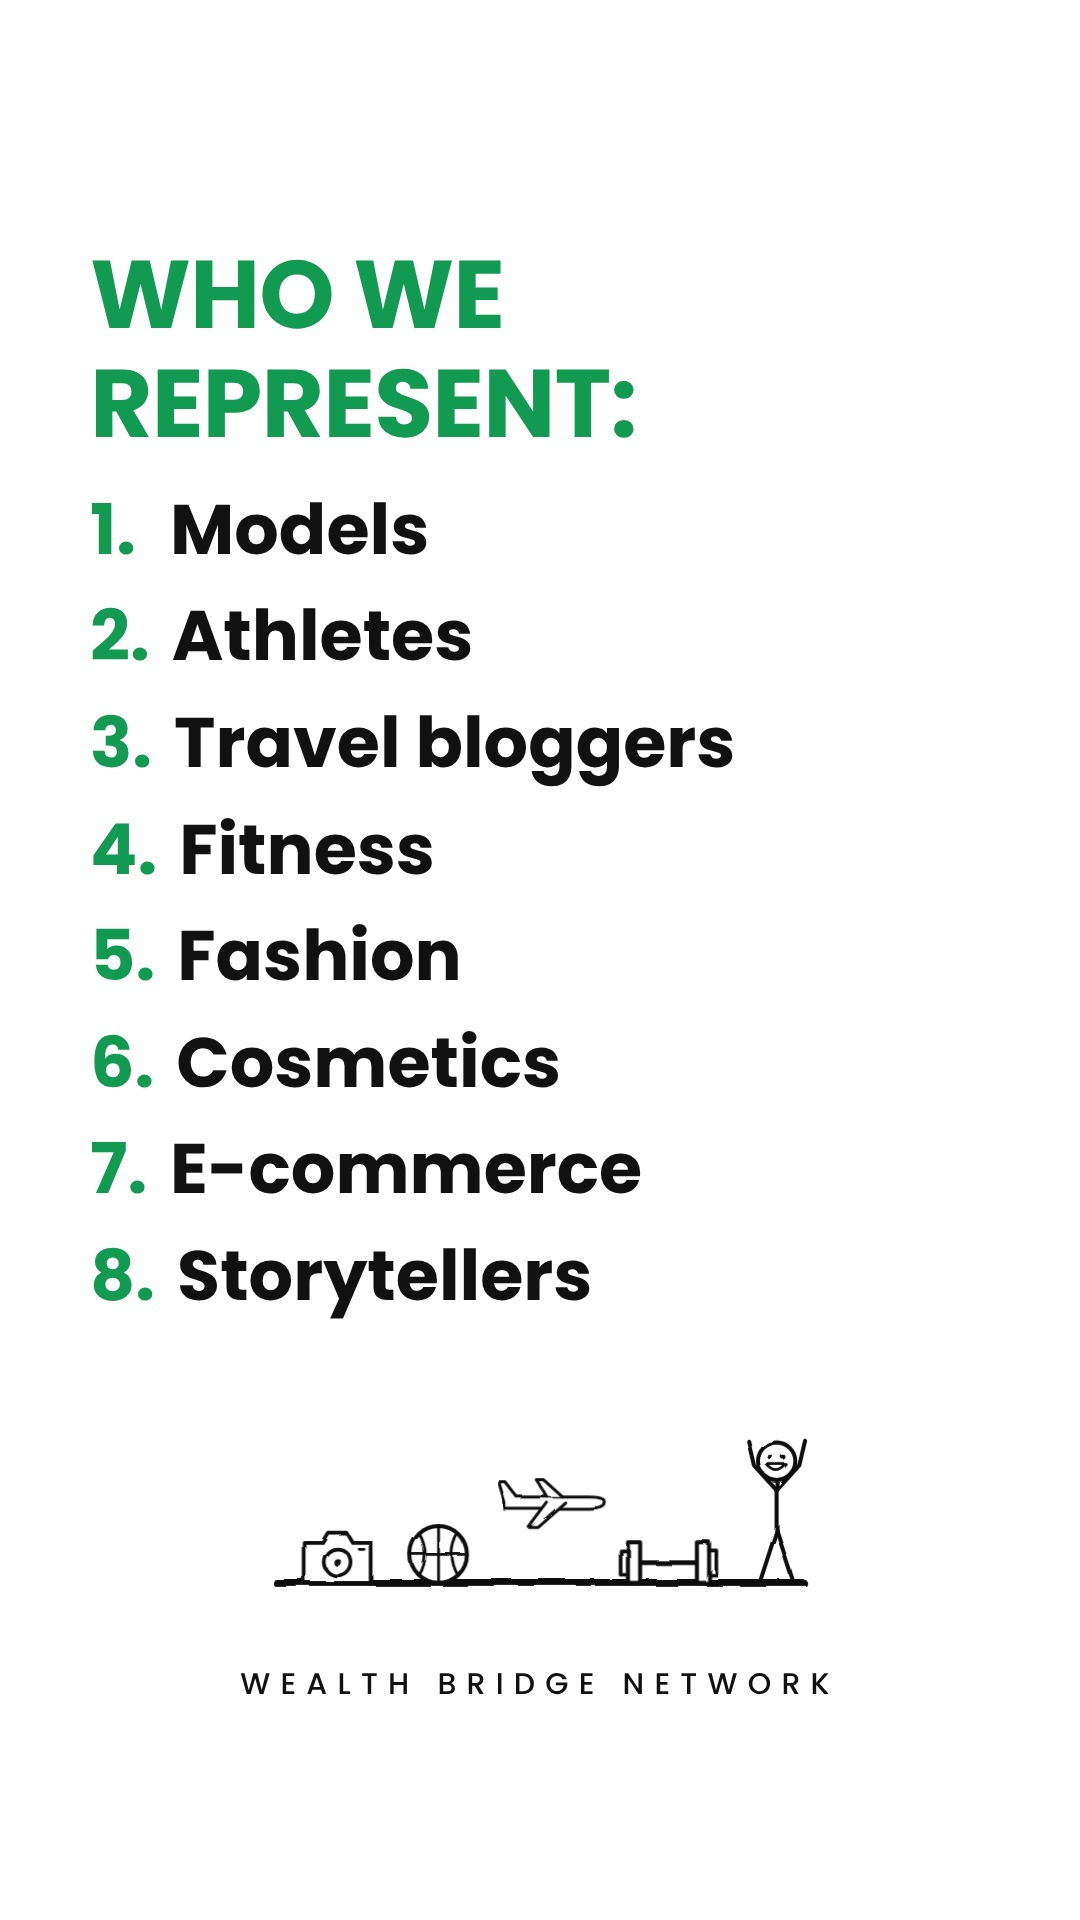
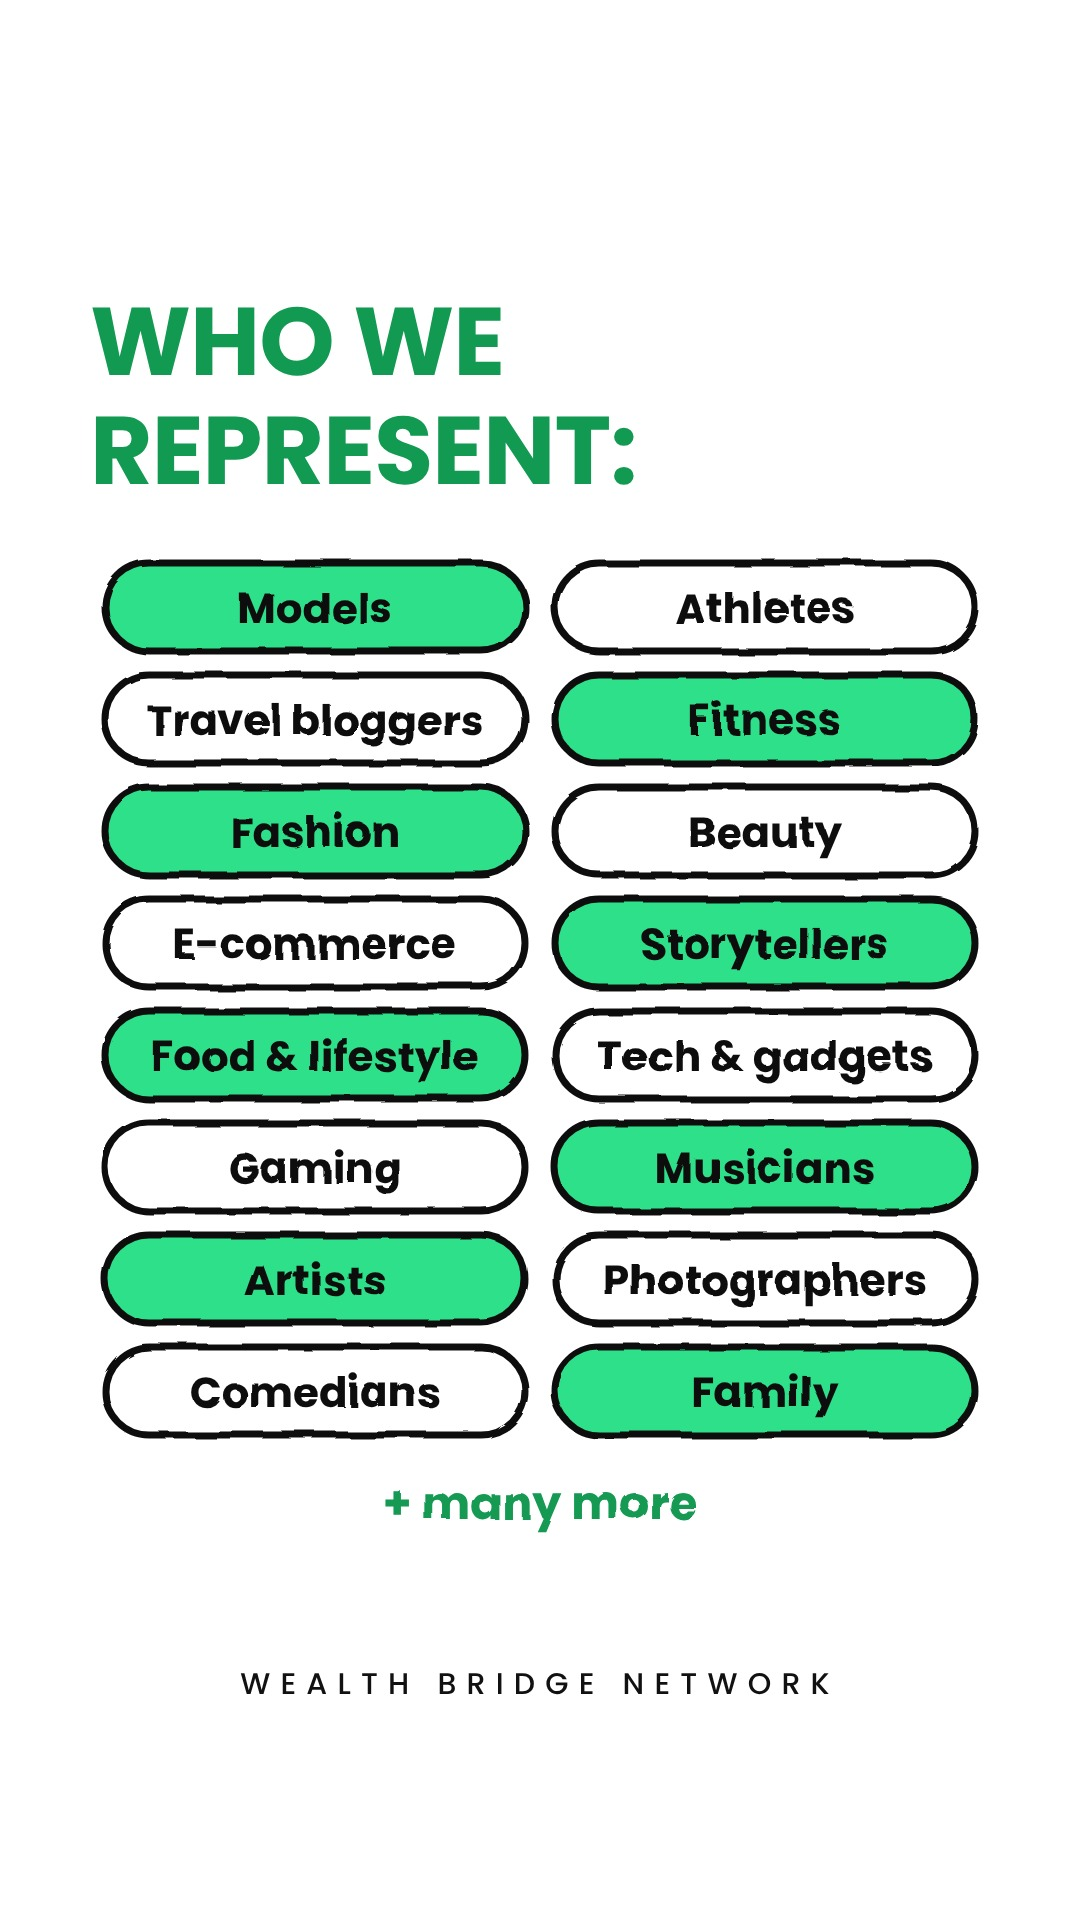
Highlights: Who we represent now 16 categories as two-column tags
Claude-Session: https://claude.ai/code/session_01XWHiAuJ5usg3NqhhkBZ2QK

Changed region(s): [[0.0917, 0.125, 0.9167, 0.8438]]

diff --git a/content/highlights.py b/content/highlights.py
@@ -25,6 +25,21 @@ def link_card(x, y, w=720, title="CLICK THIS LINK"):
     return b
 
 
+def pills(names, y0=0, row=112, cols=(225, 675), w=420):
+    """Two columns of rounded tags, alternating green/white."""
+    b = ""
+    for i, n in enumerate(names):
+        cx, y = cols[i % 2], y0 + (i // 2) * row
+        fill = "#2FE08A" if (i // 2 + i % 2) % 2 == 0 else "#fff"
+        b += f'<rect x="{cx-w/2}" y="{y}" width="{w}" height="88" rx="44" fill="{fill}" stroke="{INK}" stroke-width="7"/>'
+        b += _t(cx, y + 60, n, 42, 800)
+    return b
+
+
+CATS = ["Models", "Athletes", "Travel bloggers", "Fitness", "Fashion", "Beauty", "E-commerce", "Storytellers",
+        "Food & lifestyle", "Tech & gadgets", "Gaming", "Musicians", "Artists", "Photographers", "Comedians", "Family"]
+
+
 def month(x, y, s, name):
     return coins(x, y, s, 3) + lbl(x, y + 70 * s, name, INK, int(34 * s / 0.7), 800)
 
@@ -36,8 +51,7 @@ dict(id="hl-creators", title="Creators", slides=[
       kick="Chinese brands want *your content.* We get you *represented* in the Chinese market.", ks=54,
       scene=ground(40, 860, 620) + phone(170, 620, 0.95, "REC") + figure(400, 620, 1.2, "hold", "grin") + camera(600, 420, 0.8) + coins(760, 620, 0.9, 4), vh=640),
  dict(head="Who we\n*represent:*", hd=96,
-      items=["Models", "Athletes", "Travel bloggers", "Fitness", "Fashion", "Cosmetics", "E-commerce", "Storytellers"], **{"is": 70},
-      scene=ground(60, 840, 300) + camera(150, 300, 0.55) + ball(300, 300, 0.6) + plane(470, 200, 0.45) + dumbbell(640, 300, 0.6) + figure(800, 300, 0.6, "up", "grin", flip=True), vh=320),
+      scene=pills(CATS) + _t(450, 8 * 112 + 60, "+ many more", 46, 800, GREEN), vh=8 * 112 + 90, ah=1100),
  dict(head="How it *works:*", hd=96,
       items=["Go to the *link in bio*", "Fill in the *application*", "Once approved, you'll get an *email from our team* with next steps"], **{"is": 64},
       scene=link_card(450, 20), vh=440),

diff --git a/scripts/render_story.py b/scripts/render_story.py
@@ -20,7 +20,7 @@ _slide_html = rd.slide_html
 
 def slide_html(sl):
     out = _slide_html(sl)
-    extra = "".join(f"--{k}:{sl[k]}px;" for k in ("ks", "hd") if sl.get(k))
+    extra = "".join(f"--{k}:{sl[k]}px;" for k in ("ks", "hd", "ah") if sl.get(k))
     return out.replace('<div class="s" style="', f'<div class="s" style="{extra}', 1)
 
 
